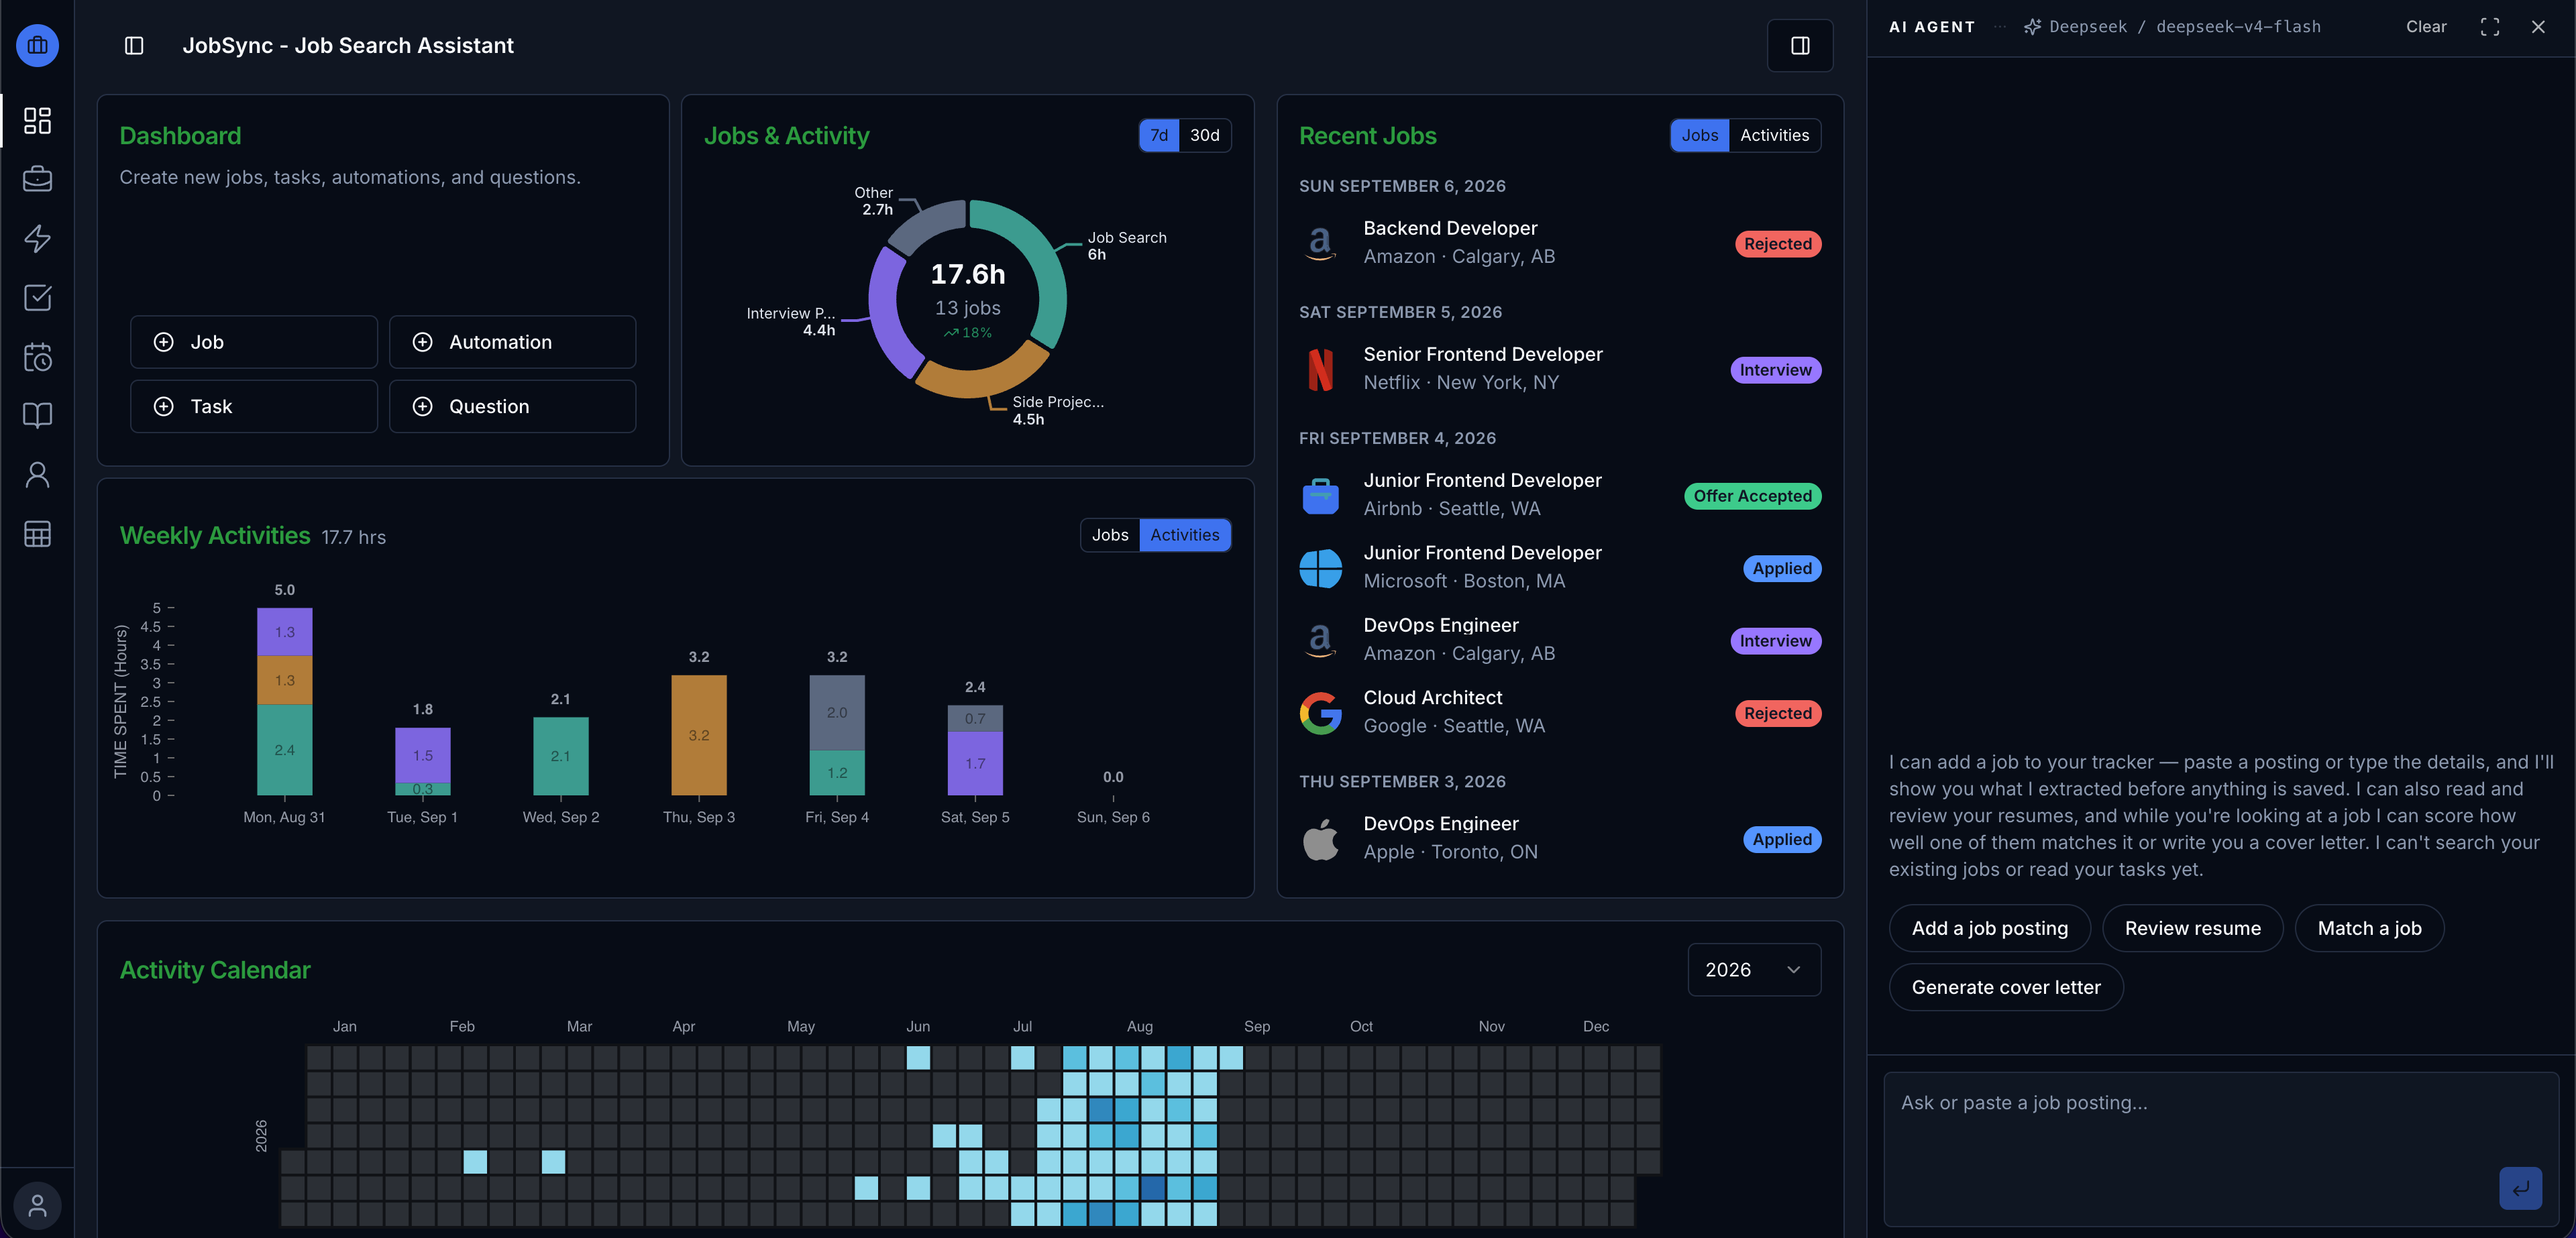
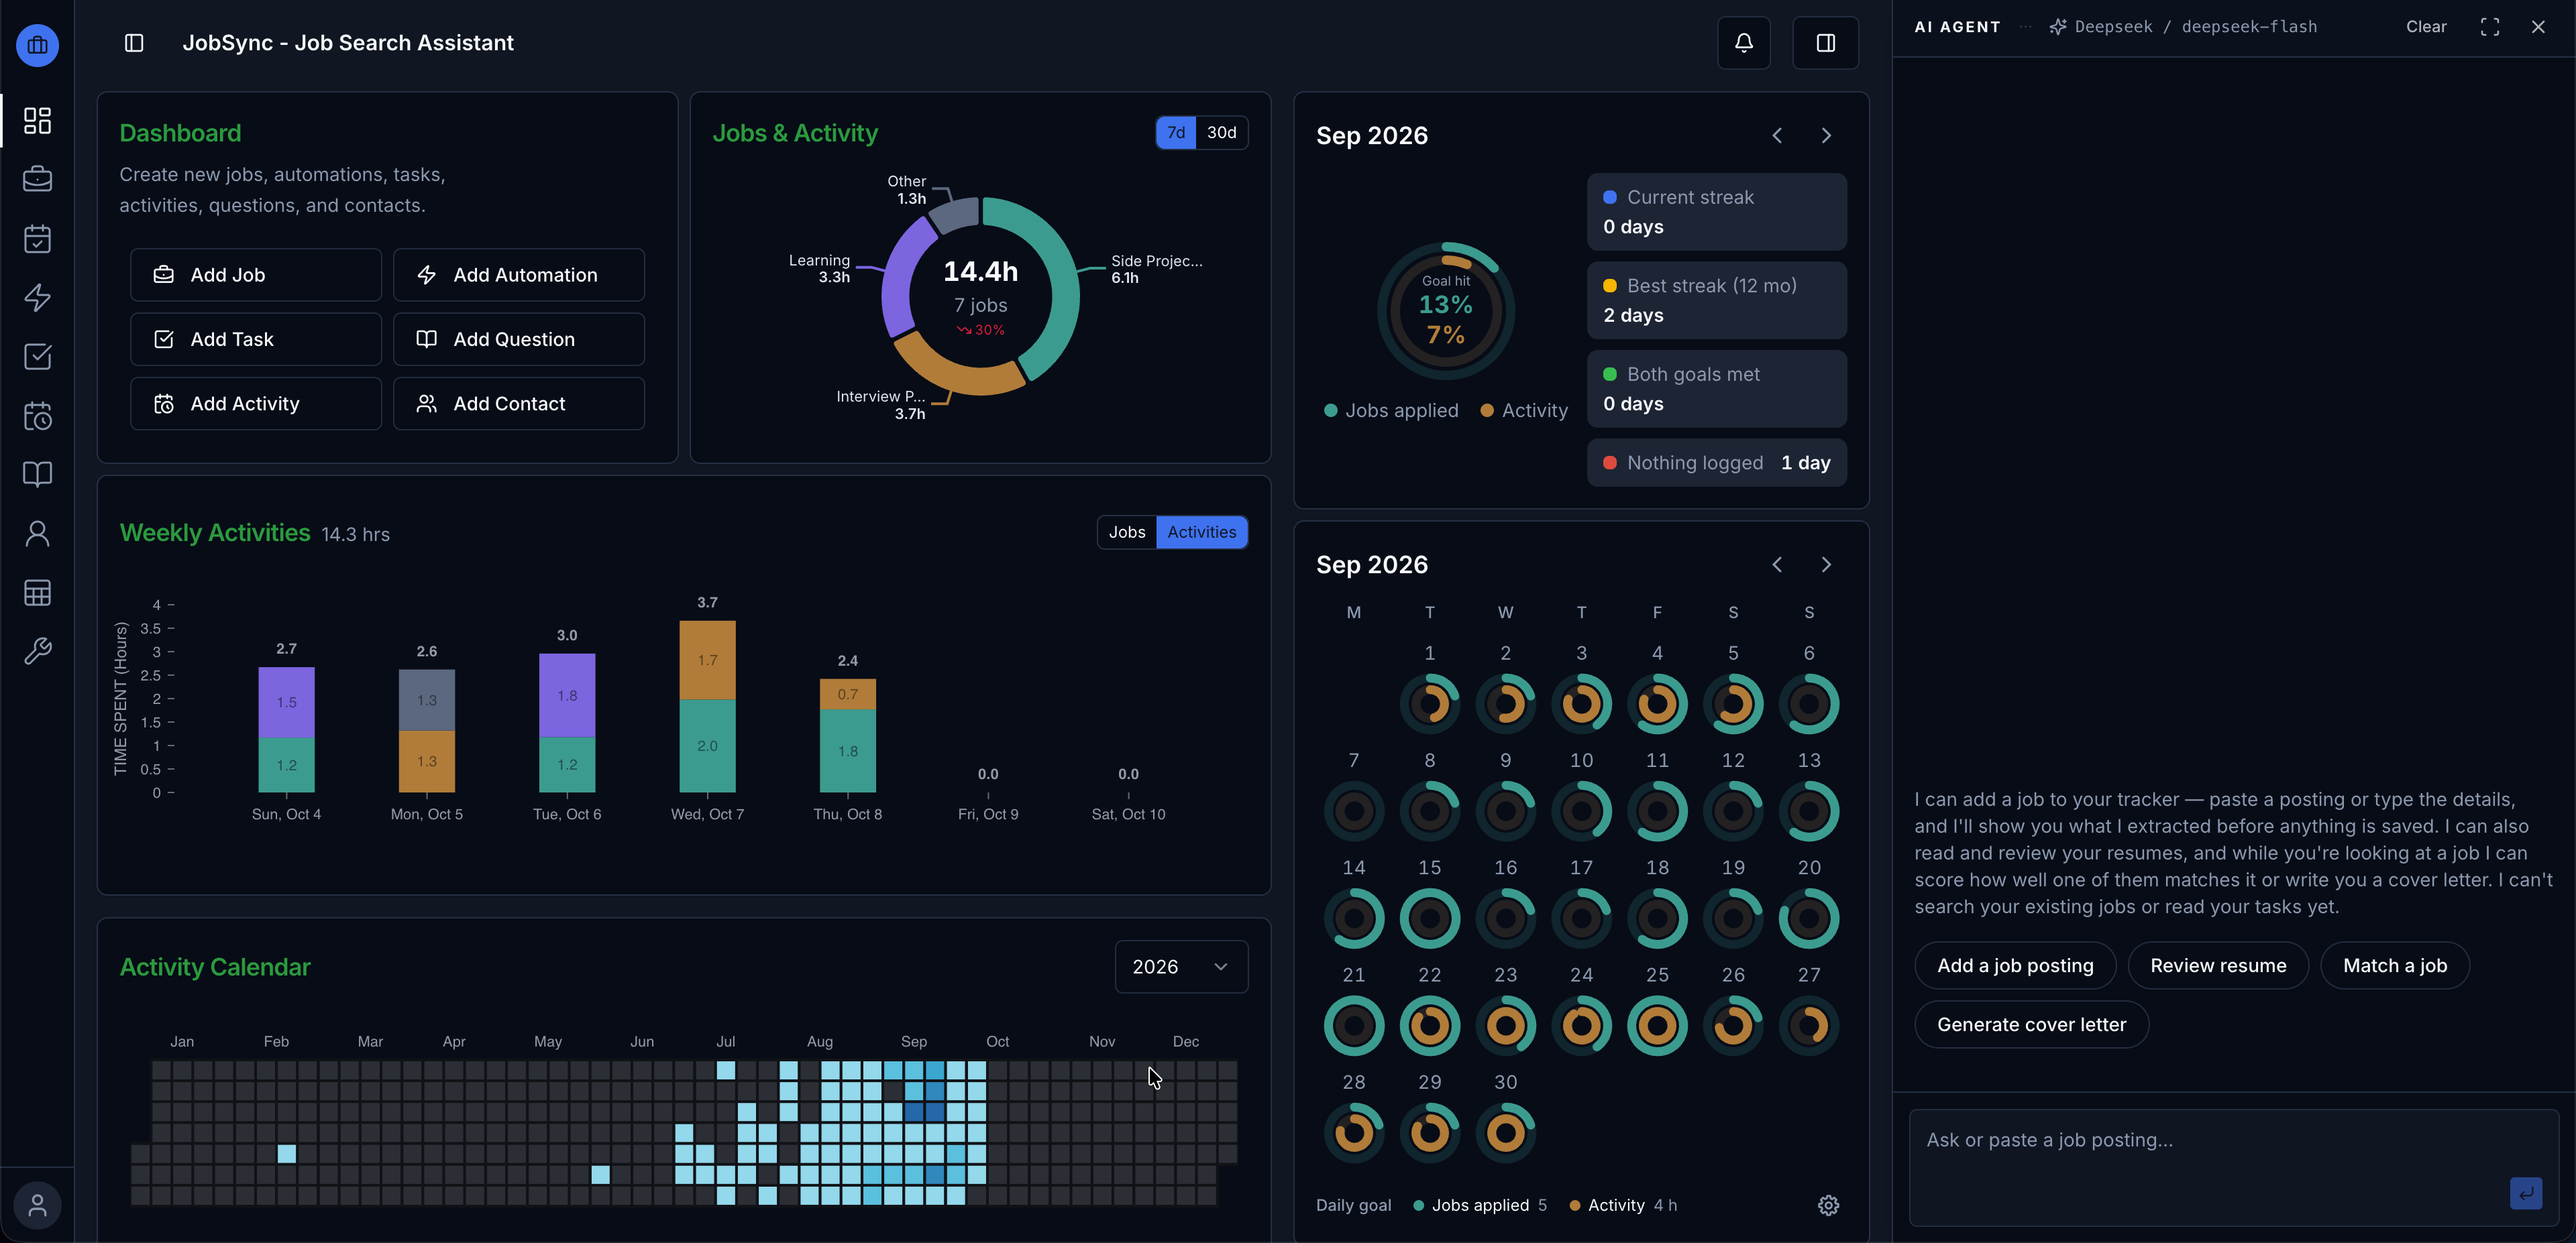
docs: update Data Backup guide, refresh README features and screenshots, remove apiTest.rest

diff --git a/src/lib/wiki/schema.ts b/src/lib/wiki/schema.ts
@@ -24,6 +24,7 @@ export const WIKI_FEATURES = [
   "activities",
   "questions",
   "mcp",
+  "backup",
 ] as const;
 
 export const WIKI_STATUSES = ["draft", "stable", "deprecated"] as const;

diff --git a/README.md b/README.md
@@ -11,39 +11,45 @@
 </p>
 
 <p align="center">
+  <a href="https://github.com/Gsync/jobsync/releases/latest"><img src="https://img.shields.io/github/v/release/Gsync/jobsync" alt="Latest Release"></a>
   <a href="./LICENSE"><img src="https://img.shields.io/github/license/Gsync/jobsync" alt="License"></a>
   <a href="https://github.com/Gsync/jobsync/stargazers"><img src="https://img.shields.io/github/stars/Gsync/jobsync?style=social" alt="GitHub Stars"></a>
   <img src="https://img.shields.io/badge/self--hosted-Docker-blue" alt="Self-hosted with Docker">
 </p>
 
-JobSync is a free, open-source companion for your job search: track applications, manage and export resumes, and ask a built-in AI assistant to review a resume, match it against a job, write a cover letter, or add a job from a posting you paste in — all self-hosted on your own server, so your data stays under your control. AI features can run entirely locally via Ollama or through your choice of cloud provider, and JobSync's built-in MCP server lets AI agents like Claude Desktop add jobs and interview questions straight from your chat.
+Track every application, get AI resume reviews and job matches, and discover new openings automatically — **free, open source, and your data never leaves your server.**
+
+🔒 Self-hosted · 🤖 Local AI via Ollama or any cloud provider · 🔌 MCP server for Claude Desktop, Hermes, etc
+
+![AI Job Match](./screenshots/jobsync-ai-jobmatch.gif)
 
 ![App Snapshot](./screenshots/jobsync-dashboard.png?raw=true "Jobsync dashboard")
 
+⭐ If JobSync helps your search, a star helps other job seekers find it.
+
+## Why JobSync?
+
+- **One place for your whole search:** applications, resumes, contacts, interviews, tasks and AI help in a single source of truth, instead of scattered spreadsheets, notes and tabs.
+- **Free forever:** no subscription and no paywalled tiers.
+- **Private:** self-hosted, so your resumes and applications stay on your own server.
+- **Local AI, no API costs:** run models on your own machine with Ollama, or bring a cloud provider key.
+
 ## Key Features
-- **Application Tracker:** Keep a detailed record of all your job applications, including company details, job titles, application dates, and current status.
+
+- **Application Tracker:** Record every application with its company, title, dates and current status.
 
   ![Jobs Applied List](./screenshots/jobsync-jobs.png?raw=true "Jobsync Jobs Page")
 
-- **Monitoring Dashboard:** Visualize your job search progress with an interactive dashboard that provides insights into your application activities, success rates, and upcoming tasks.
-
-- **Resume Management:** Store and manage your resumes, export them as professionally formatted PDFs (Simple or Professional template), and use them with AI to get reviews and match with job descriptions. Import existing resumes from PDF or Word (.docx) files — AI extracts and structures your contact info, experience, education, and certifications so you can review and save each section individually.
-
-- **Automated Job Discovery:** Schedule automations that track companies via job board APIs, then AI-match each listing against your resume and surface the best fits for review. See [Features in Detail](#automated-job-discovery) below.
-
-- **Task & Activity Management:** Manage tasks, track activities linked with tasks including time tracking.
-
-- **Contacts:** Keep the people behind your job hunt — recruiters, hiring managers, interviewers, referrers and references — with how you know them and when you last spoke. Link a contact to any number of jobs with a role on each link, so the same recruiter can sit on three applications, and filter by role to find your references in one click.
-
-- **Company Pages:** Every company gets a details page with its jobs, the people who work there or worked with you there, and links to its website, careers page and job board. Watch a company to put it on your watchlist; watched companies with a job board appear in their own Watched group when you pick companies for an automation.
-
-- **Question Bank:** Build a library of interview questions with your answers, tagged by skill, so your preparation is in one place when the next interview comes up.
-
-- **Data Backup & Restore:** Download every job, resume, task, activity, contact and question — plus your uploaded resume files — as one zip from **Settings > Data**, and import it back on any JobSync instance. Backups never contain API keys, MCP tokens or passwords, and every import first saves a snapshot so you can undo it.
-
-- **AI Assistant:** A chat panel that stays docked beside whatever page you're on. Ask it to review a resume, score how well it matches the job you're viewing, write a tailored cover letter, or add a job straight from a posting you paste in — it asks for your confirmation before saving anything. See [Features in Detail](#ai-assistant-in-app-chat) below.
-
-- **AI Agent Integration (MCP):** Connect AI agents like Claude Desktop via a built-in MCP server to add job applications and Question Bank entries directly from your chat, with your approval. When a job description is substantial enough, the agent can also analyze it against your default resume and save a job match score right from the chat.
+- **Monitoring Dashboard:** See your search progress, activity and daily goals at a glance.
+- **Resume Management:** Store resumes, export them as PDFs, and import existing PDF or Word files with AI.
+- **Automated Job Discovery:** Schedule searches over company job boards and AI-match each listing to your resume. [Details](#automated-job-discovery)
+- **Task & Activity Management:** Track tasks and time your activities. [Tasks](https://github.com/Gsync/jobsync/wiki/Tasks) · [Activities](https://github.com/Gsync/jobsync/wiki/Activities)
+- **Contacts:** Keep recruiters, interviewers and references, linked to the jobs they touched. [Details](https://github.com/Gsync/jobsync/wiki/Contacts)
+- **Company Pages:** One page per company with its jobs, people and links, plus a watchlist. [Details](https://github.com/Gsync/jobsync/wiki/Companies)
+- **Question Bank:** Build a library of interview questions and answers, tagged by skill.
+- **Data Backup & Restore:** Export everything as one zip, import it anywhere, and undo an import. [Details](https://github.com/Gsync/jobsync/wiki/Data-Backup)
+- **AI Assistant:** A docked chat that reviews resumes, scores job matches, writes cover letters and adds jobs you paste in. [Details](#ai-assistant-in-app-chat)
+- **AI Agent Integration (MCP):** Add jobs and questions from Claude Desktop and other agents. [Details](#mcp-server-ai-agent-integration)
 
 ## Quick Start
 
@@ -55,7 +61,7 @@ cd jobsync
 docker compose up
 ```
 
-> **Note:** The first startup builds the app image, which can take a few minutes — if the app is unreachable right after `docker compose up`, wait a bit before accessing it in your browser.
+> **Note:** The first startup downloads the prebuilt app image, so give it a moment before opening the browser.
 
 Open [http://localhost:3737](http://localhost:3737) and create your account. That's it!
 
@@ -75,7 +81,7 @@ Environment variables can be set in `docker-compose.yml`:
 
 ### Updating
 
-From the project directory, run the deploy script to pull the latest changes and rebuild:
+From the project directory, run the deploy script to pull the latest image and restart:
 
 ```sh
 curl -fsSL https://raw.githubusercontent.com/Gsync/jobsync/main/deploy.sh | sudo bash -s
@@ -109,8 +115,6 @@ The reviews, matches and letters are the same analyses the dedicated panels used
 The assistant is deliberately narrow about what it can see: it reads your resumes and the single job you're looking at, and nothing else. It can't list or search your jobs, and it can't see tasks or activities. Pasted postings are also treated as untrusted text, so instructions hidden inside a posting can't make the assistant act on your data.
 
 Pick a model under **Settings > AI Settings** before using the panel — it needs one that supports tool calling, and it will tell you rather than guessing if none is set. See [known-good models](#supported-ai-model-providers) for the ones that have been tested, including a fully local option.
-
-![AI Job Match](./screenshots/jobsync-ai-jobmatch.gif)
 
 ### PDF Resume Export
 

diff --git a/wiki/backup.md b/wiki/backup.md
@@ -1,0 +1,34 @@
+---
+type: how-to
+title: Data Backup
+description: Exporting everything on your account as one zip, importing it back on any JobSync instance, what a backup leaves out, and undoing an import.
+feature: backup
+tags: [backup, restore, export, import, data, zip, snapshot, undo import, rollback, migrate, settings data]
+aliases: [export my data, import my data, back up jobsync, restore from backup, move to a new server, undo import]
+status: stable
+stale_after: 2027-10-10
+---
+
+# Data Backup
+
+## How do I back up my data?
+
+Open the avatar menu at the bottom of the sidebar, choose **Settings**, then **Data**, and click **Download backup**. You get one zip with every job, resume, task, activity, contact and question on your account, plus your uploaded resume files.
+
+## What does a backup leave out?
+
+API keys, MCP tokens and your password. The file is safe to store anywhere for that reason, but it does contain the full text of every job description, note and resume, so keep it somewhere private.
+
+## How do I restore a backup?
+
+Under **Settings → Data**, choose the zip in **Import a backup**. JobSync reads it and shows when it was exported, which JobSync version and account it came from, and how many of each record it holds. Click **Replace my data with this backup** to confirm.
+
+An import replaces everything on the account you are signed in to. Your API keys and MCP tokens are left alone, and the agent chat history is cleared. If the backup came from a different account, a red warning says so, and the import still wipes the account you are signed in to.
+
+## How do I move JobSync to a new server?
+
+Download a backup on the old instance, sign in to the new one, and import the zip under **Settings → Data**. Set your API keys again on the new instance, since a backup never carries them.
+
+## How do I undo an import?
+
+Every import saves your previous data first, and the **Undo an import** card under **Settings → Data** lists those snapshots with the date, job and resume counts and size. Click **Restore** next to the one from just before the import you want to undo. A snapshot of the current state is saved first, so a restore can itself be undone.

diff --git a/wiki/index.md b/wiki/index.md
@@ -15,6 +15,7 @@ JobSync tracks job applications, resumes and the work you do around them. These 
 - [Automations](./automations.md) — set up a scheduled search over Greenhouse, Lever and Ashby company boards, fill in the filters that make it work, and handle the jobs it discovers.
 - [Tasks](./tasks.md) — add to-dos with a priority and due date, find them with the status filter and activity-type panel, mark them done, and start a timed activity from one.
 - [Activities](./activities.md) — time the work you do with a start/stop timer and breaks, log time after the fact, and see your hours on the Dashboard.
+- [Data Backup](./backup.md) — download everything as one zip, import it on any instance, and undo an import.
 - [MCP Access](./mcp.md) — connect an external AI agent such as Claude Desktop, generate and revoke access tokens, and what the agent can do once connected.
 
 Installation, Docker and environment variables are in the [project README](https://github.com/Gsync/jobsync#readme).
